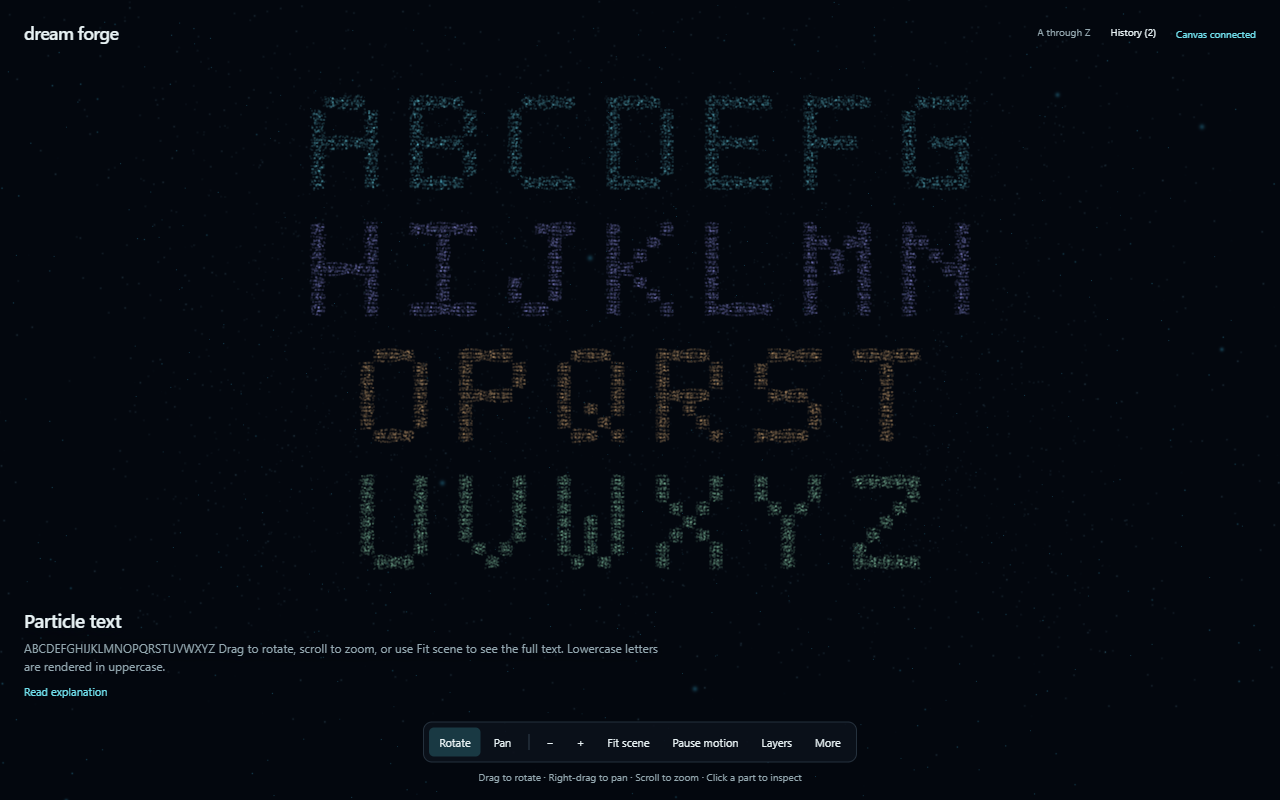
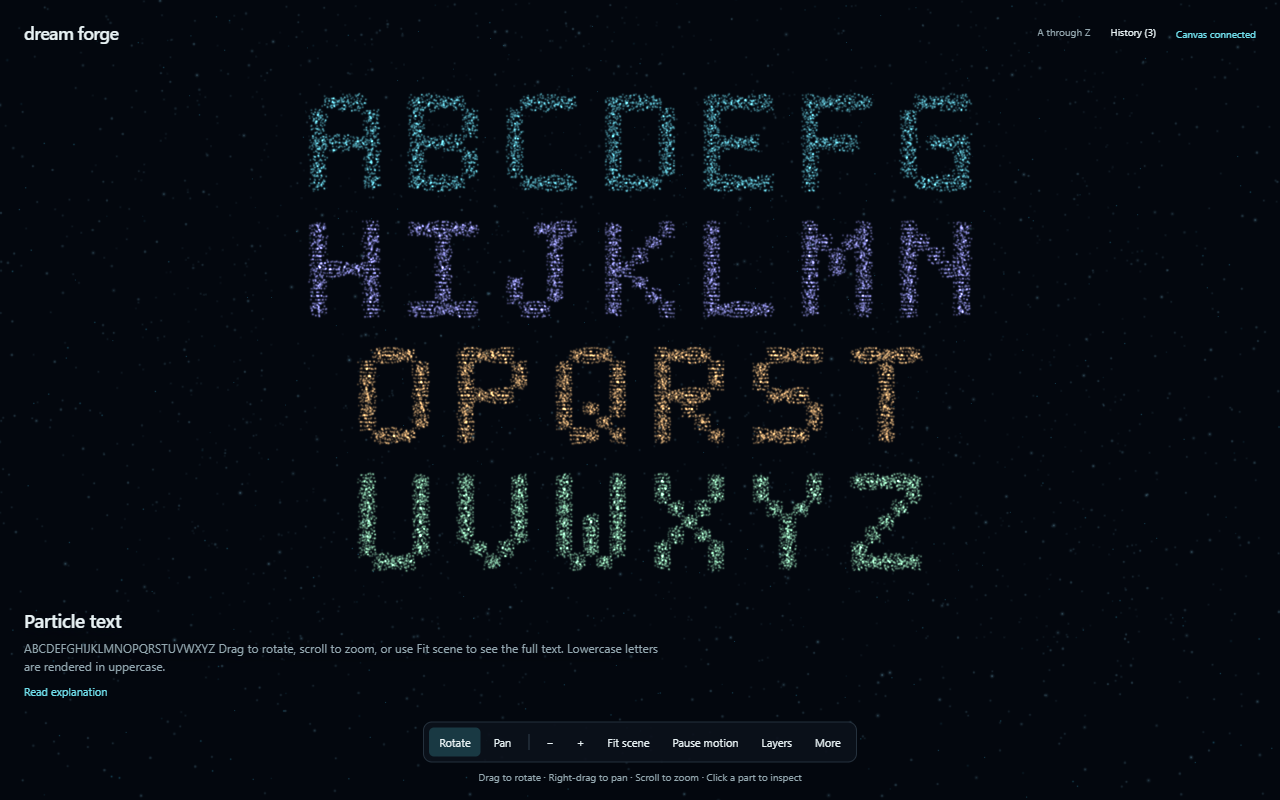
Balance text particle density and quiet Windows setup progress

diff --git a/src/process.js b/src/process.js
@@ -6,7 +6,7 @@ export function runCommand(command, args = [], { cwd, env = process.env, timeout
   let parameters = args;
   if (process.platform === 'win32' && !command.endsWith('.exe')) {
     const quote = (value) => `'${value.replaceAll("'", "''")}'`;
-    const script = `& ${[command, ...args].map(quote).join(' ')}; if ($null -eq $LASTEXITCODE) { exit 1 }; exit $LASTEXITCODE`;
+    const script = `$ProgressPreference = 'SilentlyContinue'; & ${[command, ...args].map(quote).join(' ')}; if ($null -eq $LASTEXITCODE) { exit 1 }; exit $LASTEXITCODE`;
     executable = 'powershell.exe';
     parameters = [
       '-NoProfile',

diff --git a/src/text-scene.js b/src/text-scene.js
@@ -92,7 +92,8 @@ export function textScene(input) {
             label: row,
             show_label: false,
             description: row,
-            position: [0, ((rows.length - 1) / 2 - r) * 3.4, 0],
+            position: [0, ((rows.length - 1) / 2 - r) * 2.21, 0],
+            scale: 0.65,
             color: colors[r % colors.length],
             points,
           },
